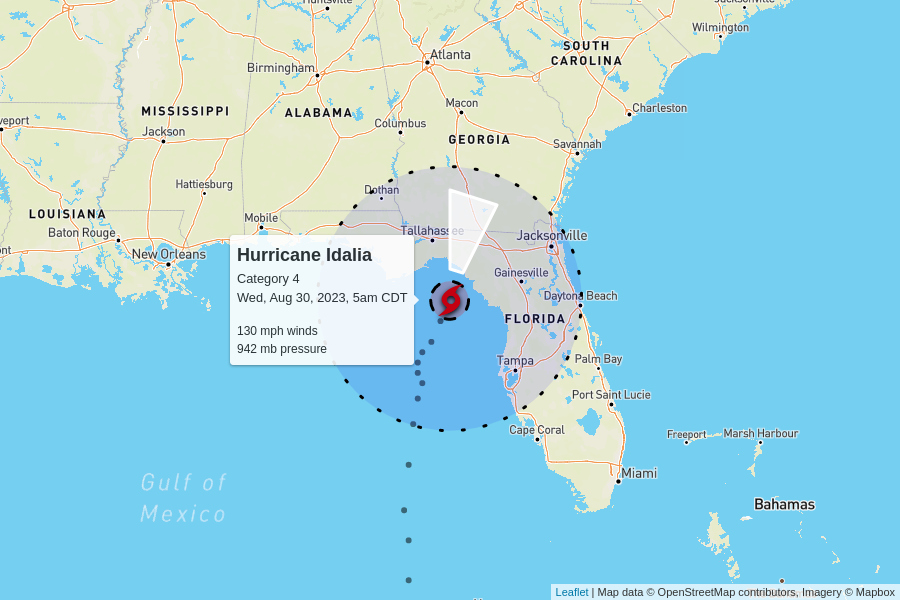
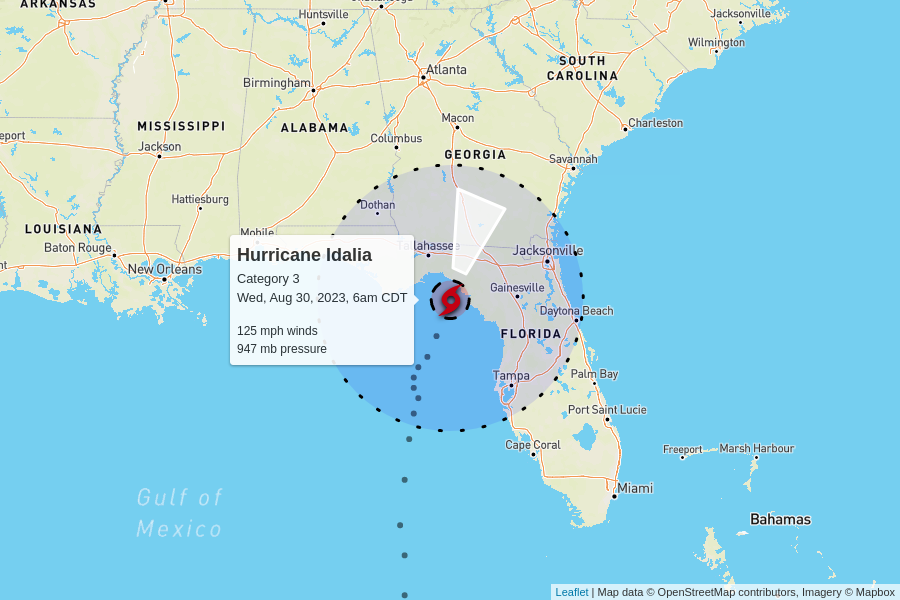
automatic update

diff --git a/docs/index.html b/docs/index.html
@@ -97,10 +97,10 @@
 
     <table>
       <tr>
-        <td colspan="6" class="storm category-4" >
+        <td colspan="6" class="storm category-3" >
           <h2>
-            Hurricane Idalia - Category 4
-            <p class="updated">last updated <span data-time>2023-08-30T10:00:00.000Z</span></p>
+            Hurricane Idalia - Category 3
+            <p class="updated">last updated <span data-time>2023-08-30T11:00:00.000Z</span></p>
           </h2>
         </td>
       </tr>
@@ -115,12 +115,12 @@
       </tr>
       <tr>
         <td class="spacer"></td>
-        <td>130 mph</td>
-        <td>942 mb</td>
+        <td>125 mph</td>
+        <td>947 mb</td>
         <td>
-          17 mph to the north-northeast
+          18 mph to the north-northeast
           <br/>
-          <span style="display: inline-block; font-size: 1.5em; transform: rotate(15deg);">↑</span>
+          <span style="display: inline-block; font-size: 1.5em; transform: rotate(20deg);">↑</span>
         </td>
         <td><a href="https://raw.githubusercontent.com/mgwalker/atlantic-hurricanes/main/data/csv/AL102023.csv">AL102023.csv</a></td>
         <td><a href="https://www.nhc.noaa.gov/archive/2023/IDALIA.shtml?">NHC advisories</a></td>
